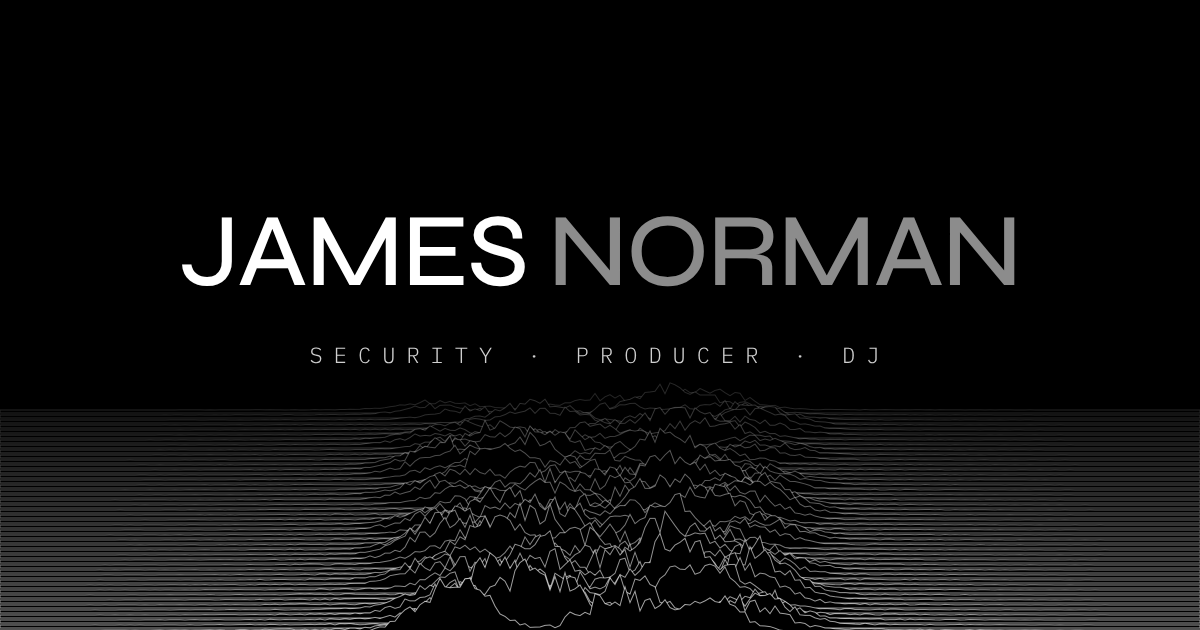
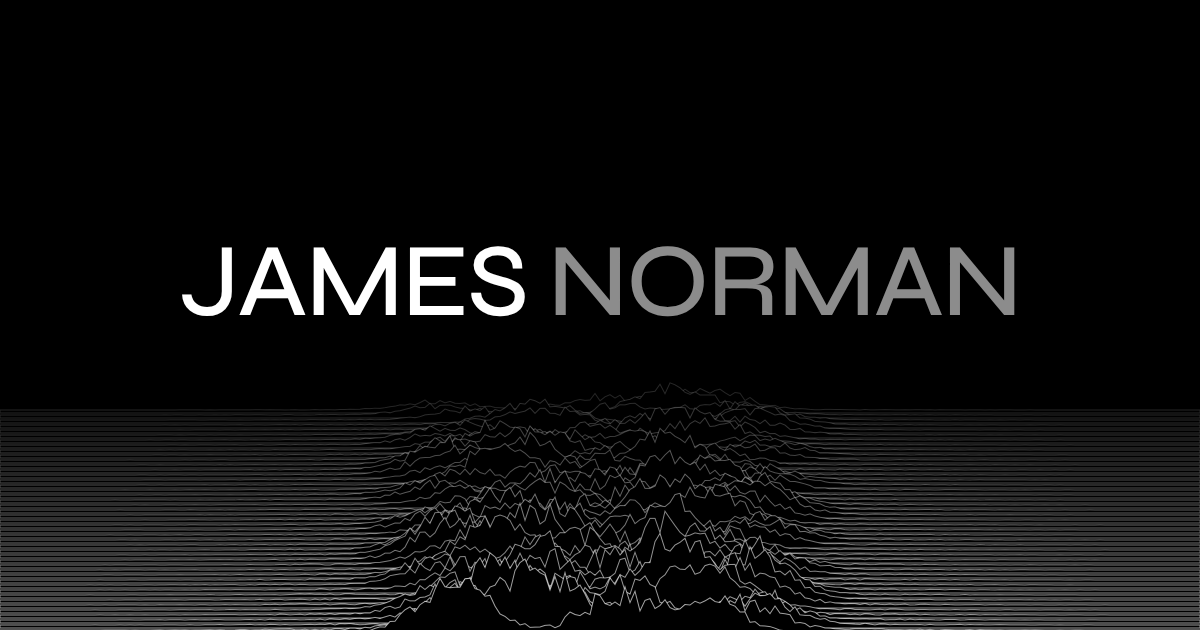
Homepage: drop the 'Security · Producer · DJ' line from the intro (and from the link-preview image); the name and the tabs carry it
Claude-Session: https://claude.ai/code/session_01Bfn3TvngxzGArDYqFakCW1

diff --git a/index.html b/index.html
@@ -120,16 +120,15 @@
     opacity:0;animation:nameIn 2.4s .4s forwards;text-shadow:0 0 40px #000}
   .intro .name .ch{display:inline-block;will-change:transform}
   .intro .name i{font-style:normal;font-weight:400;opacity:.55}
-  .intro .line{font-size:.7rem;letter-spacing:.55em;text-transform:uppercase;color:#cfcfcf;margin-top:1.6rem;opacity:0;animation:fi 1.6s 1.4s forwards,fadeAway 3s 8s forwards}
   .intro nav{display:flex;flex-wrap:wrap;justify-content:center;gap:.7rem;margin-top:2.4rem;max-width:760px}
   .intro nav a{pointer-events:auto;border:1px solid rgba(255,255,255,.35);color:#fff;padding:.75rem 1.1rem;font-size:.7rem;letter-spacing:.3em;text-transform:uppercase;
     background:rgba(0,0,0,.55);opacity:0;animation:fi 1.2s forwards;transition:border-color .3s,background .3s;will-change:transform}
   .intro nav a:hover{border-color:#fff;background:rgba(255,255,255,.08)}
-  body.intro-done .intro .line,body.intro-done .intro nav{visibility:hidden}
+  body.intro-done .intro nav{visibility:hidden}
   @keyframes nameIn{0%{opacity:0;filter:blur(10px)}100%{opacity:1;filter:blur(0)}}
   @keyframes fadeAway{to{opacity:0;filter:blur(4px)}}
-  @media(max-width:700px){.intro .line{letter-spacing:.3em}.pp{width:50px;height:50px}}
-  @media (prefers-reduced-motion: reduce){.intro .name,.intro .line,.intro nav a{animation-duration:.01s!important}}
+  @media(max-width:700px){.pp{width:50px;height:50px}}
+  @media (prefers-reduced-motion: reduce){.intro .name,.intro nav a{animation-duration:.01s!important}}
   .tag{display:block;font-size:.7rem;letter-spacing:.4em;color:var(--mid);margin-top:.5rem}
   nav.site{display:flex;gap:.6rem 2rem;flex-wrap:wrap;justify-content:center}
   nav.site a{opacity:0;visibility:hidden;transition:opacity .35s,visibility .35s}
@@ -159,7 +158,6 @@
 
 <div class="intro" id="intro" aria-label="James Norman">
   <h1 class="name">James <i>Norman</i></h1>
-  <p class="line">Security · Producer · DJ</p>
   <nav aria-label="Sections">
     <a href="/music/" style="animation-delay:2.40s,9.40s">Music</a>
     <a href="/night-shift/" style="animation-delay:2.58s,9.52s">Agents</a>
@@ -1285,7 +1283,7 @@ function runIntro() {
   const later = (ms, fn) => introTimers.push(setTimeout(fn, ms));
 
   if (reduceMotion) {
-    later(6000, () => { intro.querySelector('.line').style.opacity = 0; name.style.transition = 'opacity 1s'; name.style.opacity = 0; });
+    later(6000, () => { name.style.transition = 'opacity 1s'; name.style.opacity = 0; });
     later(7000, () => { document.body.classList.add('intro-done'); landName(); });
     return;
   }
